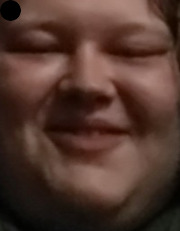
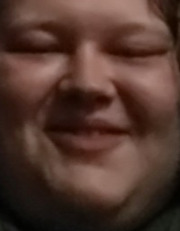
ыыы

Changed region(s): [[0.0, 0.0, 0.1389, 0.0909]]

diff --git a/app.js b/app.js
@@ -7,7 +7,7 @@ global.dsbot = new Discord.Client();
 dsbot.on('ready',function () {
 
     gm('./image.png')
-        .drawRectangle(10, 10, 100, 10 , 1, 1)
+        .drawRectangle(10, 10, 100, 100 , 1, 1)
         .fill('#fff')
         .write('./crazy.jpg', function (err) {
             if (!err){ console.log('crazytown has arrived');
